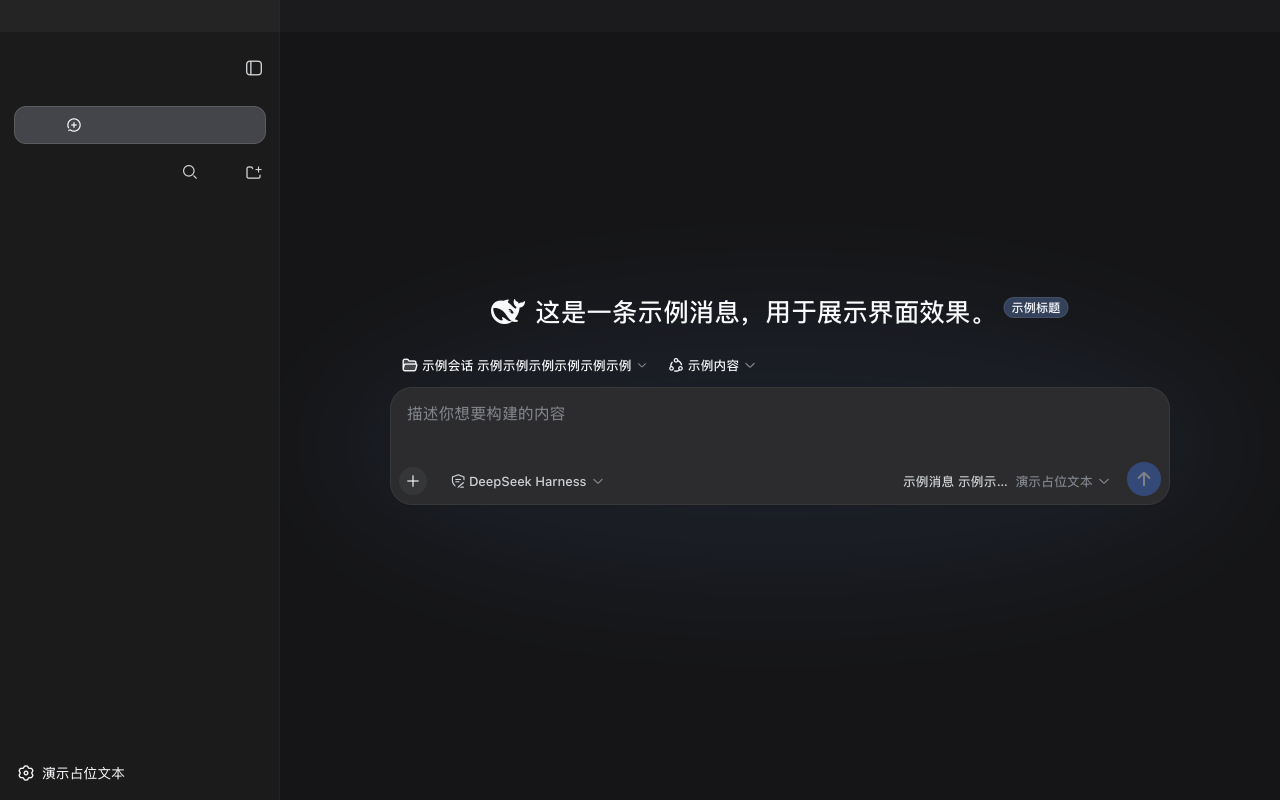
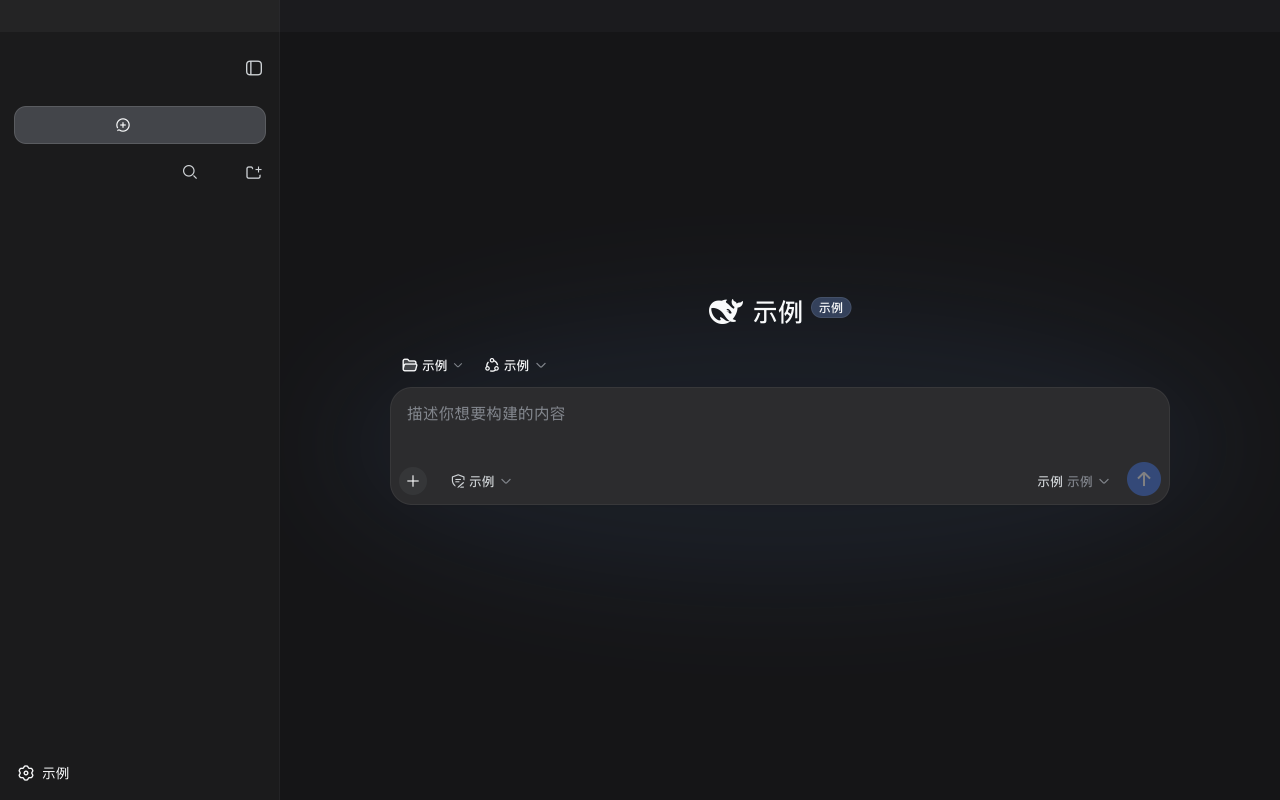
feat: real-window screenshots with scrubbed placeholder content
Add --shot-scrub and --shot-dark launch flags: after load the page text
is replaced with natural placeholder copy (two passes, inputs cleared)
and the page can be switched to its dark theme for captures. The light
README screenshot is now a real window capture (native traffic lights
included); the dark one stays an offscreen composite because flipping
the theme inside this full-size-content window leaves WKWebView
rendering a blank surface (window appearance is deliberately left
untouched in shot mode).

diff --git a/Sources/DSHMac/WebViewController.swift b/Sources/DSHMac/WebViewController.swift
@@ -59,6 +59,37 @@ final class WebViewController: NSViewController, WKNavigationDelegate, WKUIDeleg
   private var appliedState: (String, String, String, Bool, Double)?
   private let themeProxy: ThemeMessageProxy
 
+  /// Screenshot aids (only active with explicit launch flags): scrub every
+  /// text node to placeholder content and/or force the dark page theme.
+  var scrubForScreenshot = false
+  var shotDark = false
+
+  /// Placeholder copy used by `--shot-scrub`: varied, natural-looking text so
+  /// screenshots keep the real layout without carrying any real data.
+  private static let screenshotScrubScript = """
+  (() => {
+    const long = [
+      '这是一个用于展示界面外观的示例消息，全部文字均为占位内容。',
+      'DeepSeek Harness 是插件化的智能体框架，本截图不包含任何真实数据。',
+      '这里原本是一条真实消息；为了截图，它已被替换成这段示例文本。',
+      '示例说明：所有会话内容、标题与配置信息都不会出现在截图中。',
+    ];
+    const mid = ['示例会话标题', '演示项目', '示例消息', '示例说明'];
+    const walker = document.createTreeWalker(document.body, NodeFilter.SHOW_TEXT);
+    const nodes = [];
+    while (walker.nextNode()) nodes.push(walker.currentNode);
+    let i = 0;
+    for (const n of nodes) {
+      const t = (n.nodeValue || '').trim();
+      if (!t) continue;
+      n.nodeValue = t.length > 30 ? long[i++ % long.length] : (t.length > 6 ? mid[i++ % mid.length] : '示例');
+    }
+    document.querySelectorAll('input, textarea').forEach((e) => { e.value = ''; });
+    document.querySelectorAll('[contenteditable]').forEach((e) => { e.textContent = ''; });
+    return nodes.length;
+  })()
+  """
+
   private static let loopbackHosts: Set<String> = ["127.0.0.1", "localhost", "[::1]", "harness.internal"]
   private static let themeMessageName = "dshTheme"
 
@@ -322,7 +353,12 @@ final class WebViewController: NSViewController, WKNavigationDelegate, WKUIDeleg
     stripBorder.layer?.backgroundColor = (Self.parseRgbColor(borderColorString) ?? NSColor.separatorColor).cgColor
     stripBorder.isHidden = false
     window.backgroundColor = contentColor
-    window.appearance = NSAppearance(named: dark ? .darkAqua : .aqua)
+    // Screenshot dark mode keeps the window appearance as-is: flipping the
+    // appearance (or starting dark) leaves this WKWebView rendering a blank
+    // surface, while the page's own attribute-driven dark theme renders fine.
+    if !shotDark {
+      window.appearance = NSAppearance(named: dark ? .darkAqua : .aqua)
+    }
     AppLog.shared.info("webview: theme synced (dark=\(dark), sidebar=\(sidebarColorString), content=\(contentColorString), width=\(sidebarWidth))")
     if widthChanged { view.needsLayout = true }
   }
@@ -345,6 +381,21 @@ final class WebViewController: NSViewController, WKNavigationDelegate, WKUIDeleg
     hasLoadedOnce = true
     hideOverlay()
     samplePageTheme()
+    guard scrubForScreenshot else { return }
+    let scrub: () -> Void = { [weak self] in
+      self?.webView.evaluateJavaScript(Self.screenshotScrubScript, completionHandler: nil)
+    }
+    // Two scrub passes with a pause: late-rendered lists get scrubbed too.
+    DispatchQueue.main.asyncAfter(deadline: .now() + 0.8, execute: scrub)
+    DispatchQueue.main.asyncAfter(deadline: .now() + 2.0, execute: scrub)
+    guard shotDark else { return }
+    // Switch the page theme only after the scrubbing settled: the page's
+    // dark theme is keyed on this attribute, and the reporter then repaints
+    // the strip with the dark tokens (window appearance stays untouched).
+    DispatchQueue.main.asyncAfter(deadline: .now() + 3.5) { [weak self] in
+      self?.webView.evaluateJavaScript(
+        "document.body.setAttribute('data-ds-dark-theme', '')", completionHandler: nil)
+    }
   }
 
   func webView(_ webView: WKWebView, didFailProvisionalNavigation navigation: WKNavigation!, withError error: Error) {

diff --git a/Sources/DSHMac/LaunchOptions.swift b/Sources/DSHMac/LaunchOptions.swift
@@ -17,11 +17,15 @@ struct LaunchOptions: CustomStringConvertible {
   var direct = false
   /// Log file path (default: ~/Library/Logs/DeepSeekHarness/deepseek-harness.log).
   var logPath: String?
+  /// Screenshot aid: replace every page text node with placeholder content.
+  var shotScrub = false
+  /// Screenshot aid: force the page (and the shell) into the dark theme.
+  var shotDark = false
 
   var description: String {
     "LaunchOptions(port: \(port.map(String.init) ?? "nil"), forceSpawn: \(forceSpawn),"
       + " cwd: \(cwd ?? "nil"), dshPath: \(dshPath ?? "nil"), direct: \(direct),"
-      + " logPath: \(logPath ?? "nil"))"
+      + " logPath: \(logPath ?? "nil"), shotScrub: \(shotScrub), shotDark: \(shotDark))"
   }
 
   /// Parse the process arguments, skipping the executable path at index 0.
@@ -49,6 +53,10 @@ struct LaunchOptions: CustomStringConvertible {
         options.direct = true
       case "--log":
         options.logPath = takeValue()
+      case "--shot-scrub":
+        options.shotScrub = true
+      case "--shot-dark":
+        options.shotDark = true
       case "--help":
         print(Self.helpText)
         exit(0)

diff --git a/Sources/DSHMac/AppDelegate.swift b/Sources/DSHMac/AppDelegate.swift
@@ -100,6 +100,8 @@ final class AppDelegate: NSObject, NSApplicationDelegate, ServerControllerDelega
     let controller = WebViewController()
     controller.onRetry = { [weak self] in self?.server.start() }
     controller.onOpenExternal = { url in NSWorkspace.shared.open(url) }
+    controller.scrubForScreenshot = options.shotScrub
+    controller.shotDark = options.shotDark
     webVC = controller
 
     let window = NSWindow(

diff --git a/README.md b/README.md
@@ -79,6 +79,8 @@ open -a "DeepSeek Harness"
 | `--dsh <path>` | 指定 `dsh` 可执行文件路径 |
 | `--direct` | 不走登录 shell，直接执行 dsh |
 | `--log <path>` | 日志文件路径 |
+| `--shot-scrub` | 截图辅助：把页面全部文字替换为占位内容 |
+| `--shot-dark` | 截图辅助：把页面切到深色主题 |
 
 ### 结构
 
@@ -178,6 +180,8 @@ Passed via `open -a "DeepSeek Harness" --args ...`:
 | `--dsh <path>` | explicit `dsh` binary path |
 | `--direct` | run dsh directly instead of through the login shell |
 | `--log <path>` | log file path |
+| `--shot-scrub` | screenshot aid: replace all page text with placeholders |
+| `--shot-dark` | screenshot aid: switch the page to the dark theme |
 
 ### Layout
 
